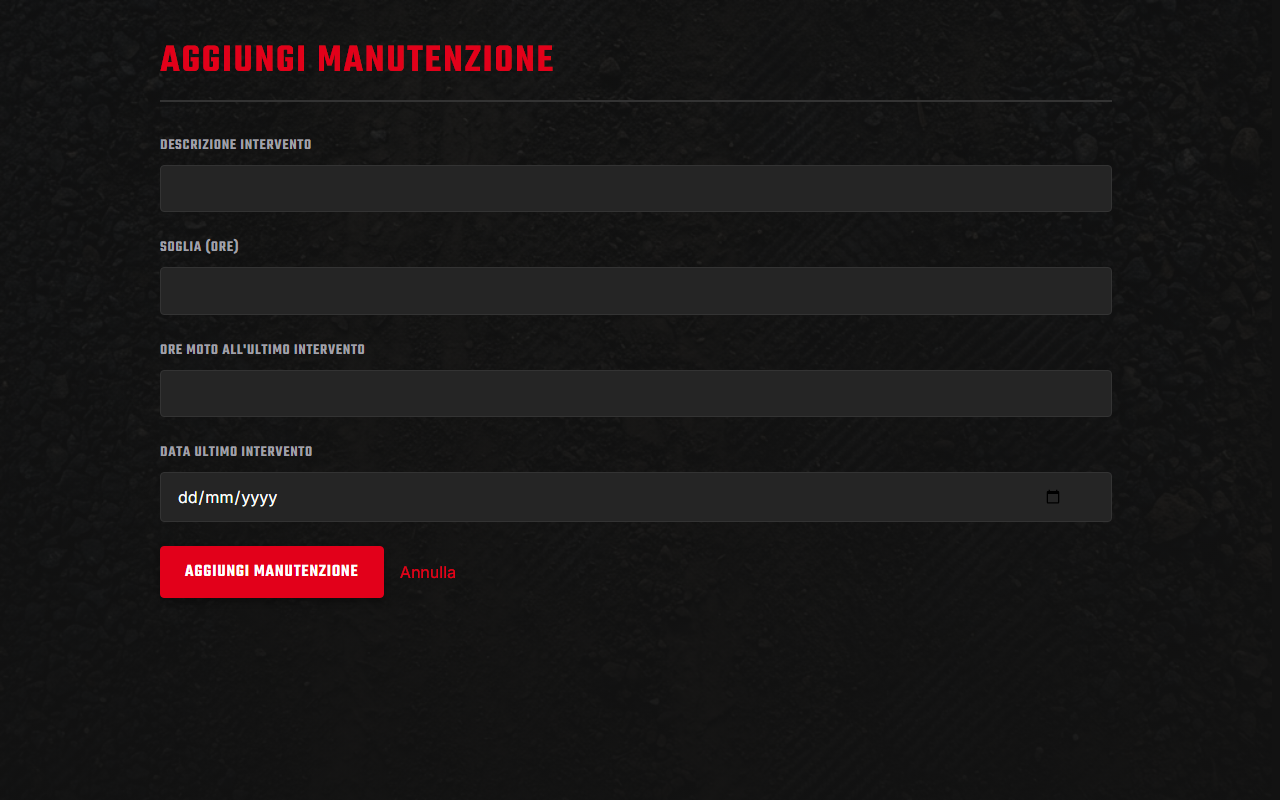
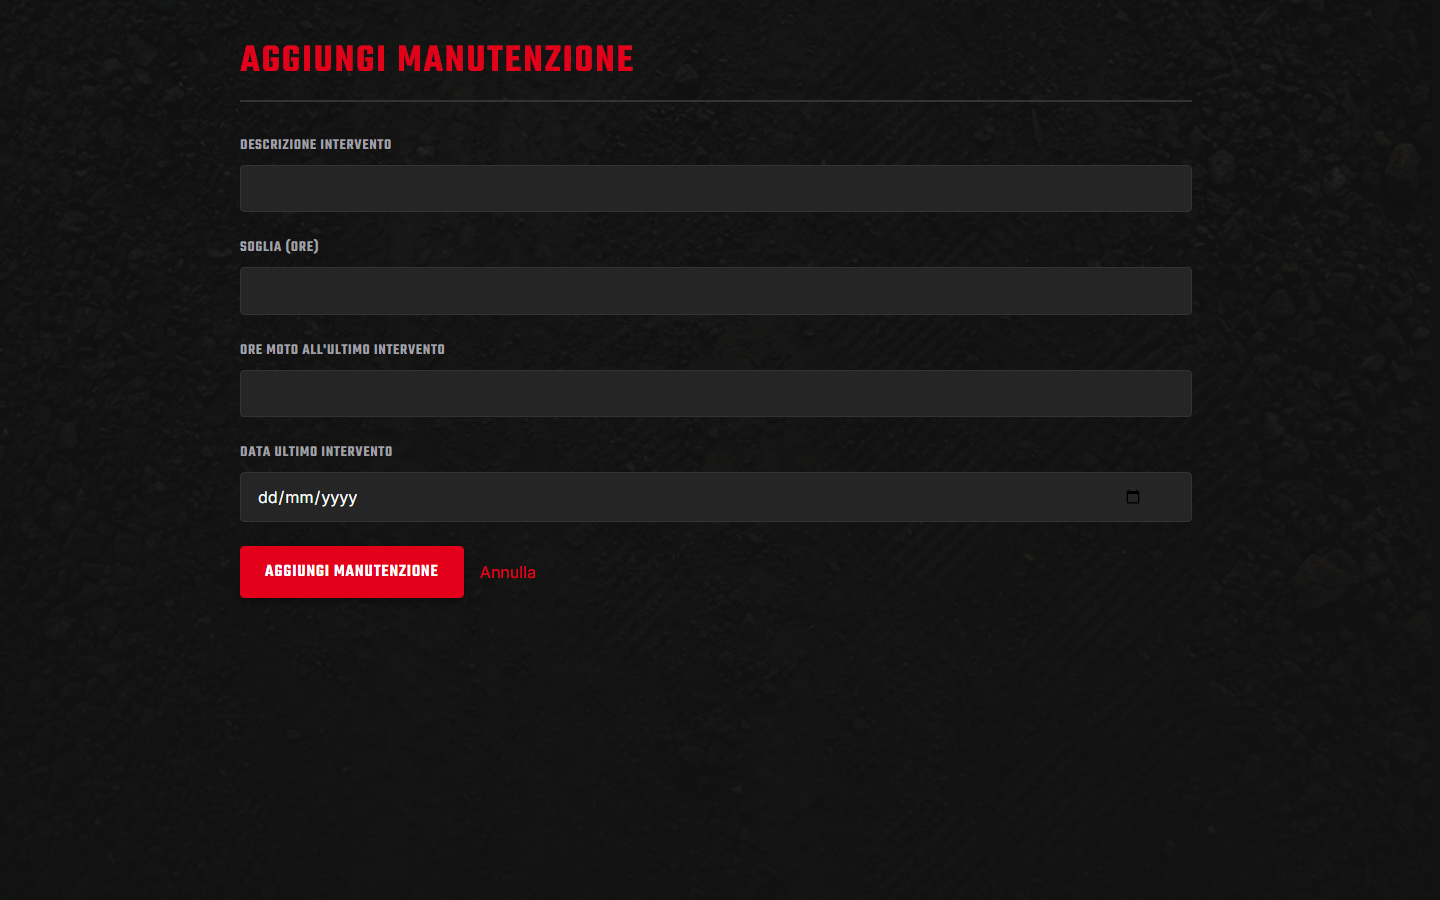
docs: update README status table and refresh screenshots

diff --git a/README.md b/README.md
@@ -18,7 +18,7 @@ Applicazione per la gestione di moto da cross/enduro, sessioni in pista e manute
 | Manutenzioni programmate (maintenance) | ✅ Implementato |
 | Alert di manutenzione (ore rimanenti, stato ok / in scadenza / scaduta) | ✅ Implementato |
 | Middleware di autorizzazione sulle rotte protette | ✅ Implementato |
-| Validazione input | 🚧 Solo presenza dei campi obbligatori, nessun controllo di formato/robustezza |
+| Validazione input (login, moto, sessioni, manutenzioni), normalizzazione email | ✅ Implementato |
 
 ### Frontend
 
@@ -38,6 +38,8 @@ Applicazione per la gestione di moto da cross/enduro, sessioni in pista e manute
 | Interfaccia manutenzioni programmate: form di creazione, storico con badge di stato (ok/in scadenza/scaduta), modifica ed eliminazione | ✅ Implementato |
 | Landing page pubblica con CTA verso login/registrazione | ✅ Implementato |
 | Tema grafico dark motocross (CSS custom properties) e transizioni di pagina animate | ✅ Implementato |
+| Pagine login/registrazione con navbar, icone e toggle "Ricordami" (persistenza token in `localStorage` o `sessionStorage`) | ✅ Implementato |
+| Classi utility Bootstrap per gli spaziamenti nell'UI | ✅ Implementato |
 
 ## Screenshot
 
@@ -52,12 +54,6 @@ Applicazione per la gestione di moto da cross/enduro, sessioni in pista e manute
 | **404** | |
 | ![Pagina 404](docs/screenshots/not-found.png) | |
 
-## Roadmap
-
-Sviluppi previsti, in ordine di priorità:
-
-- **Validazione e gestione errori centralizzata sul backend** — validazione di formato/robustezza degli input su tutti gli endpoint (oggi presente solo lato frontend), gestione uniforme degli errori via middleware Express.
-
 ## Stack tecnologico
 
 **Backend**
@@ -70,7 +66,7 @@ Sviluppi previsti, in ordine di priorità:
 - **Libreria UI:** React 19
 - **Build tool:** Vite
 - **Routing:** `react-router-dom`
-- **Styling:** CSS Modules (tema dark motocross basato su CSS custom properties)
+- **Styling:** CSS Modules (tema dark motocross basato su CSS custom properties) + utility class di Bootstrap 5 per gli spaziamenti
 - **Animazioni:** `framer-motion` (transizioni tra le pagine)
 
 **Package manager:** pnpm (monorepo con workspaces)
